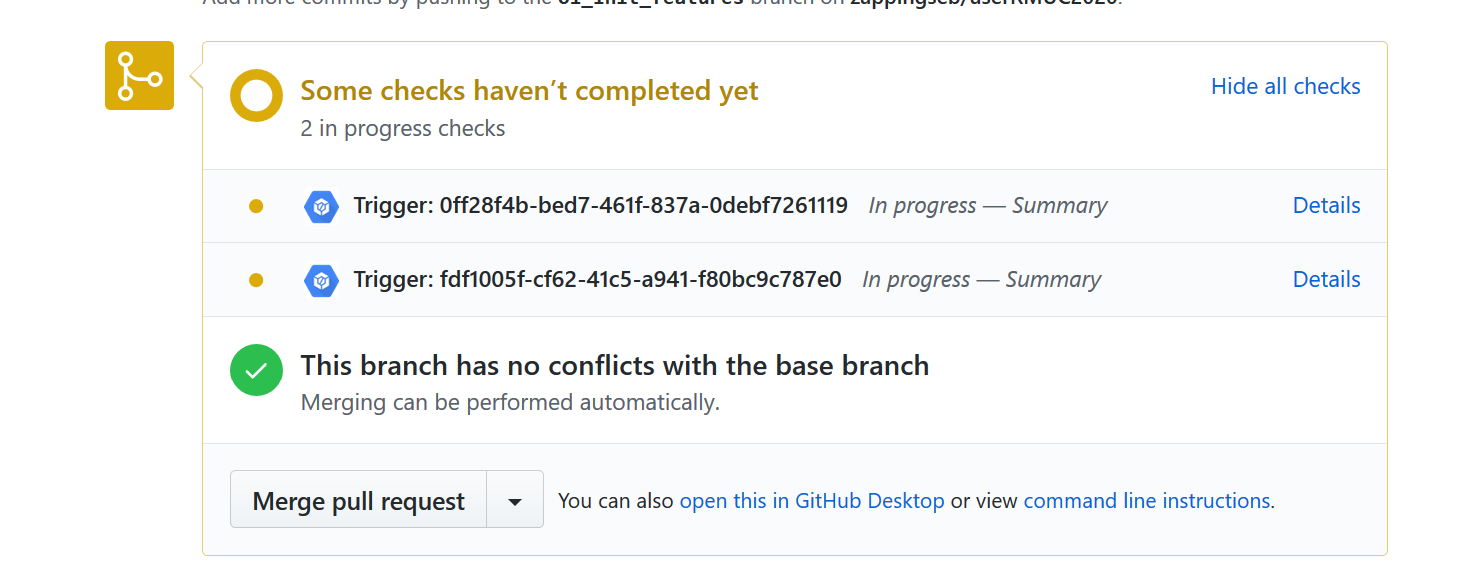
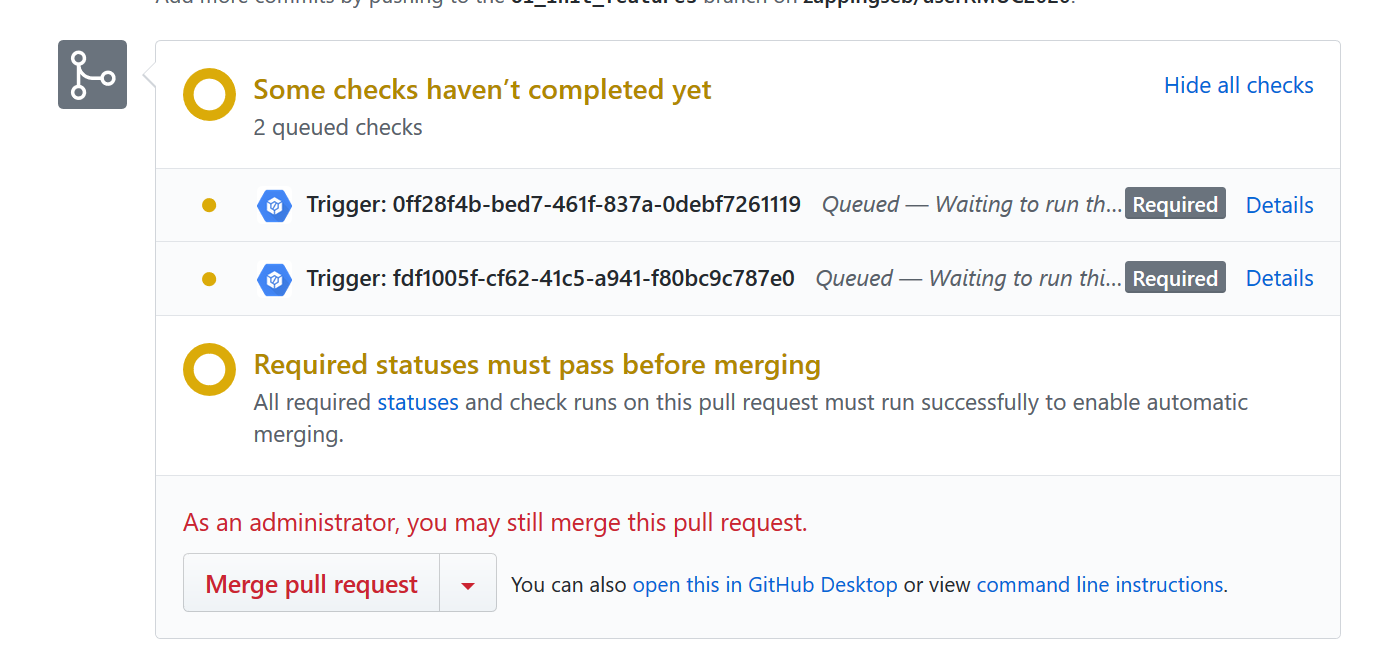
update README and remove imgs from build

diff --git a/README.md b/README.md
@@ -310,3 +310,18 @@ On Github this can be done for this repo at: https://github.com/zappingseb/userR
 After creating the **Pull Request** Google Cloud Build will automatically start to check the code and prevent the user from merging:
 
 ![](inst/img/05_github_cloudbuild.png)
+
+So let's imagine the code of the function `summary_table` was changed in the wrong way again:
+
+```r
+summary_table <- function(x, y) {
+  data.frame(x = x, y = y) %>%
+    dplyr::group_by(y) %>%
+    dplyr::summarise(
+      mean = mean(x),
+      median = median(x),
+      lower_quantile = quantile(x, 0.01),
+      upper_quantile = quantile(x, 0.99)
+    )
+}
+```
